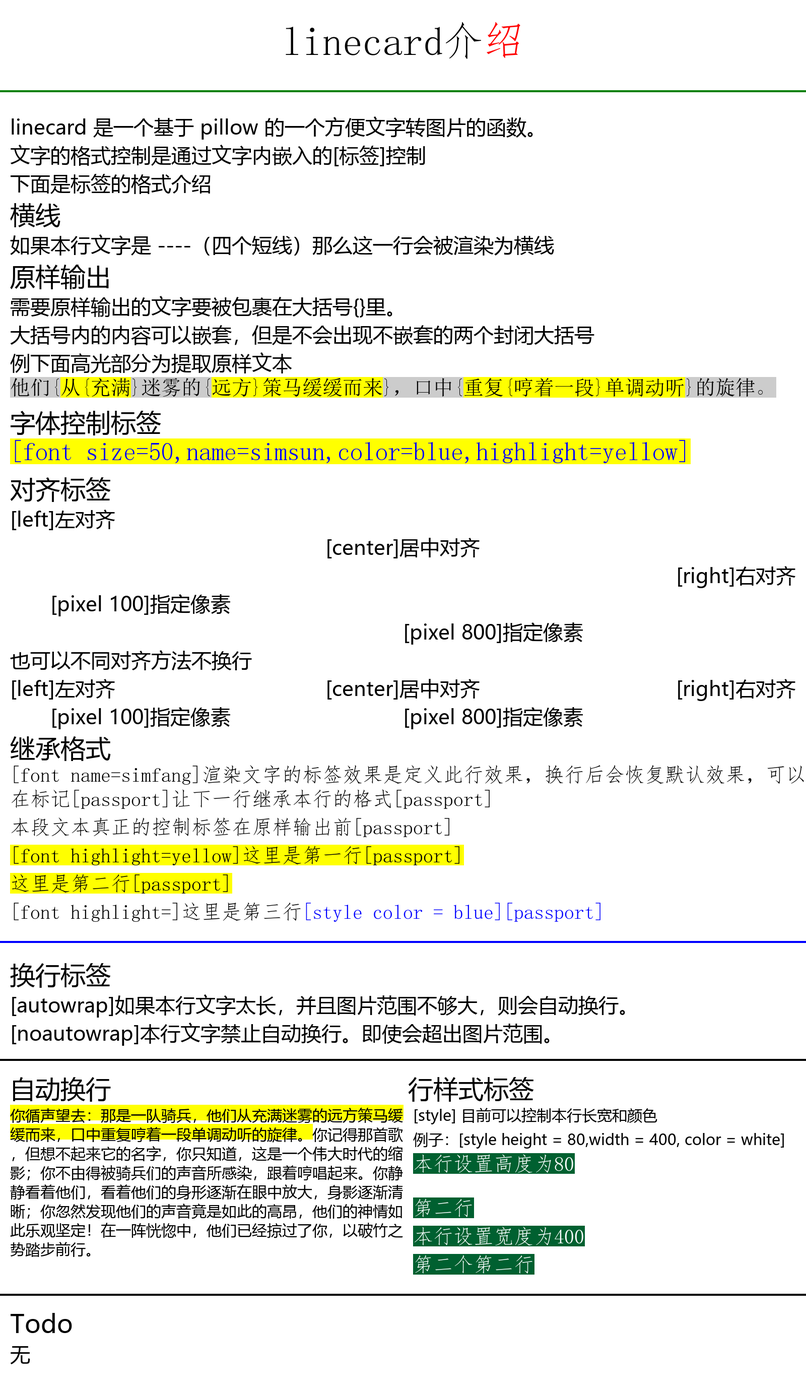
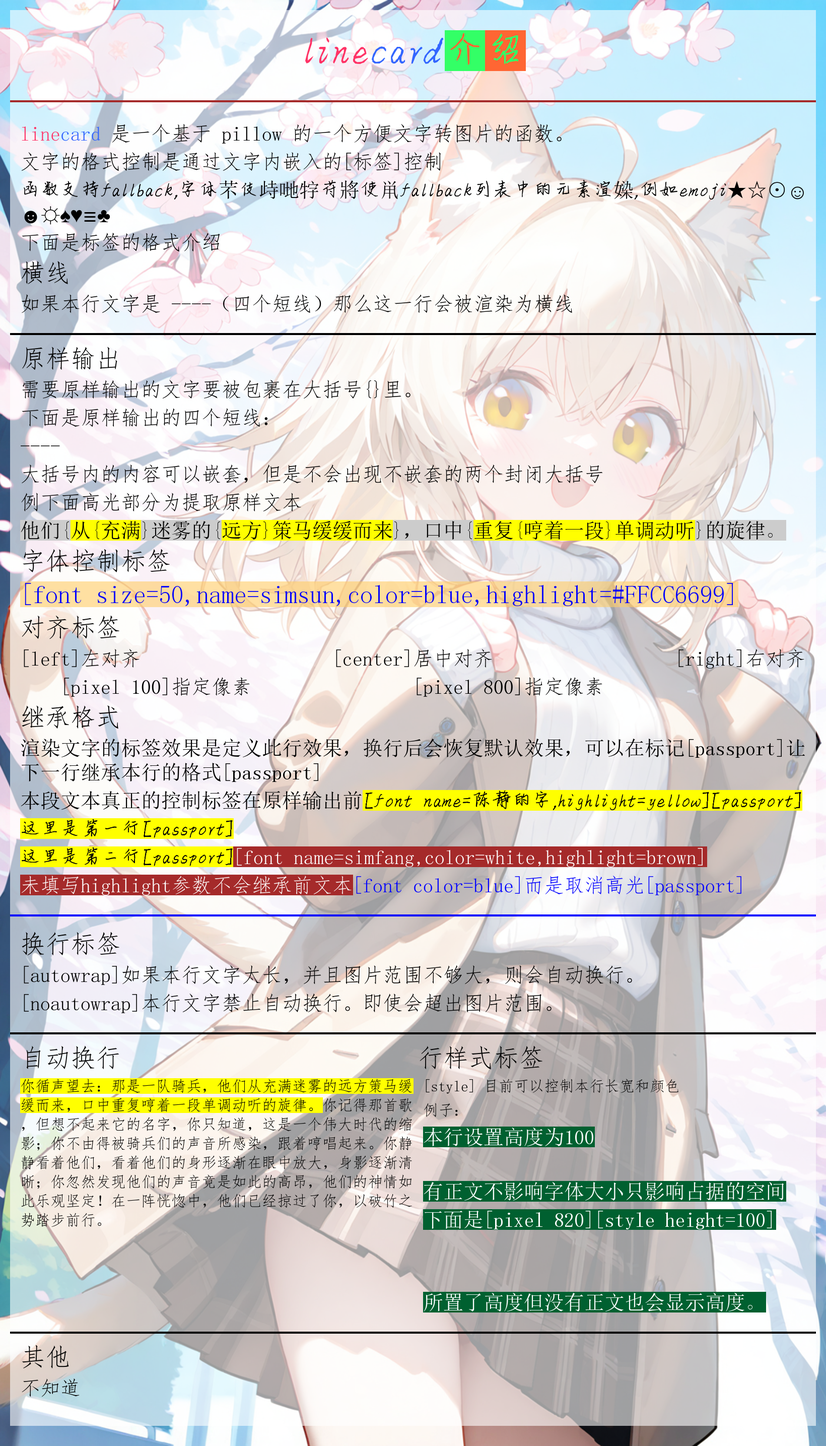
0.2.0更新

diff --git a/linecard/__init__.py b/linecard/__init__.py
@@ -136,7 +136,7 @@ class CanvasEffectHandler(Protocol):
 
 def info_splicing(
     info: ImageList,
-    BG_path: Path | None = None,
+    BG_path: str | Path | None = None,
     width: int = 880,
     padding: int = 20,
     spacing: int = 20,
@@ -157,7 +157,7 @@ def info_splicing(
         height = height - spacing + padding
 
     size = (width + padding * 2, height)
-    if BG_path and BG_path.exists():
+    if BG_path is not None and ((BG_path := Path(BG_path)) if isinstance(BG_path, str) else BG_path).exists():
         bg = Image.open(BG_path).convert("RGB")
         canvas = CropResize(bg, size)
     else:
@@ -173,9 +173,13 @@ def info_splicing(
                 canvas.paste(image, (padding, y), mask=image)
 
         elif BG_type.startswith("GAUSS"):
-            try:
-                radius = int(BG_type.split(":")[1])
-            except (IndexError, ValueError):
+            arg = BG_type.split(":")
+            if len(arg) > 1:
+                try:
+                    radius = int(arg[1])
+                except ValueError:
+                    radius = 4
+            else:
                 radius = 4
 
             def BG(canvas: IMG, image: IMG, padding: int, x: int, y: int):
@@ -206,6 +210,24 @@ def info_splicing(
 
 
 class Linecard:
+    """
+    文本标记
+        ----:横线
+        [left]靠左
+        [right]靠右
+        [center]居中
+        [pixel 400]指定像素
+        [font size = 50,name = simsun,color = red,highlight = yellow]指定文本格式
+        [style **kwargs] 控制参数
+            height: 行高
+            width: 行宽
+            color: 本行颜色
+        [nowrap]不换行
+        [passport]保持标记
+        [autowrap]自动换行
+        [noautowrap]不自动换行
+    """
+
     def __init__(self, font_name: str, fallback: list[str], sizes: Iterable[int] | None = None) -> None:
         path = find_font(font_name)
         if not path:
@@ -278,23 +300,6 @@ class Linecard:
         autowrap: bool = False,
         canvas: IMG | None = None,
     ) -> IMG:
-        """
-        文本标记
-            ----:横线
-            [left]靠左
-            [right]靠右
-            [center]居中
-            [pixel 400]指定像素
-            [font size = 50,name = simsun,color = red,highlight = yellow]指定文本格式
-            [style **kwargs] 控制参数
-                height: 行高
-                width: 行宽
-                color: 本行颜色
-            [nowrap]不换行
-            [passport]保持标记
-            [autowrap]自动换行
-            [noautowrap]不自动换行
-        """
         font_cmap = self.get_font(self.font_path, font_size)
         assert font_cmap is not None, "字体文件不存在"
         text, tags = parse_str(text)
@@ -350,15 +355,15 @@ class Linecard:
             else:
                 line_init()
             tmp_height: int = 0
-            for unit_line in line.replace("{", "\n{").split("\n"):
+            for unit_rawline in line.split("{"):
                 # 渲染行单位存在格式标签
-                if unit_line.startswith("{}"):
-                    unit_line = unit_line[2:]
+                if unit_rawline.startswith("}"):
+                    unit_line = unit_rawline = unit_rawline[1:]
                     tag, param = tags.popleft()
                     match tag:
                         # 原样输出字符串
                         case b"r":
-                            unit_line = param + unit_line
+                            unit_line = param + unit_rawline
                         # 对齐标签
                         case b"a":
                             unit_align = param
@@ -384,7 +389,7 @@ class Linecard:
                                 if line_font_cmap:
                                     line_font, line_cmap = line_font_cmap
                             line_color = fontkwargs.get("color", line_color)
-                            line_highlight = fontkwargs.get("highlight", line_highlight)
+                            line_highlight = fontkwargs.get("highlight")
                         # 样式标签
                         case b"s":
                             stylekwargs = {k: v for k, v in [x.split("=", 1) for x in param.replace(" ", "").split(",")]}
@@ -403,10 +408,12 @@ class Linecard:
                                     line_autowrap = False
                                 case "passport":
                                     line_passport = True
+                else:
+                    unit_line = unit_rawline
                 # 渲染行单位格式标签外的文本
                 if not unit_line:
                     continue
-                elif unit_line == "----":
+                elif unit_rawline == "----":
                     line_height = line_height or font_size
                     charlist.append({"char": "----", "color": line_color, "y": y, "size": line_height})
                     x = 0

diff --git a/example/main.py b/example/main.py
@@ -1,45 +1,18 @@
-if __name__ == "__main__":
-    import sys
-    from pathlib import Path
+import sys
+from pathlib import Path
 
-    sys.path.append(Path(__file__).parent.parent.as_posix())
-    import time
-    from linecard import Linecard
+sys.path.append(Path(__file__).parent.parent.as_posix())
+from linecard import Linecard, info_splicing
 
-    linecard = Linecard(
-        "汉仪家书简",
-        [
-            "msyh",
-            "Arial",
-            "Tahoma",
-            "Microsoft YaHei",
-            "Segoe UI",
-            "Segoe UI Emoji",
-            "Segoe UI Symbol",
-            "Helvetica Neue",
-            "PingFang SC",
-            "Hiragino Sans GB",
-            "Source Han Sans SC",
-            "Noto Sans SC",
-            "Noto Sans CJK JP",
-            "WenQuanYi Micro Hei",
-            "Apple Color Emoji",
-            "Noto Color Emoji",
-        ],
-        [40],
-    )
+linecard = Linecard("simfang", ["simsun", "Arial", "Tahoma"])
+path = Path(__file__).parent
 
-    start = time.time()
+image = linecard(
+    path.joinpath("example.txt").read_text(encoding="utf-8"),
+    40,
+    width=1600,
+    autowrap=True,
+    padding=(20, 40),
+)
 
-    # for i in range(1, 100):
-
-    linecard(
-        Path(__file__).parent.joinpath("example.txt").read_text(encoding="utf-8"),
-        40,
-        width=1600,
-        bg_color="#FFFFFF",
-        autowrap=True,
-        padding=(20, 40),
-    ).show()
-
-    print(time.time() - start)
+info_splicing([image], width=1600, BG_path=path.joinpath("bg.png"), BG_type="#FFFFFF99").save("example.png", format="png")

diff --git a/README.md b/README.md
@@ -12,4 +12,6 @@ _✨ linecard 是一个基于 pillow 的一个方便文字转图片的函数。 
 
 </div>
 
+[使用方法见示例文件](/example/main.py)
+
 ![效果](/example/example.png)
